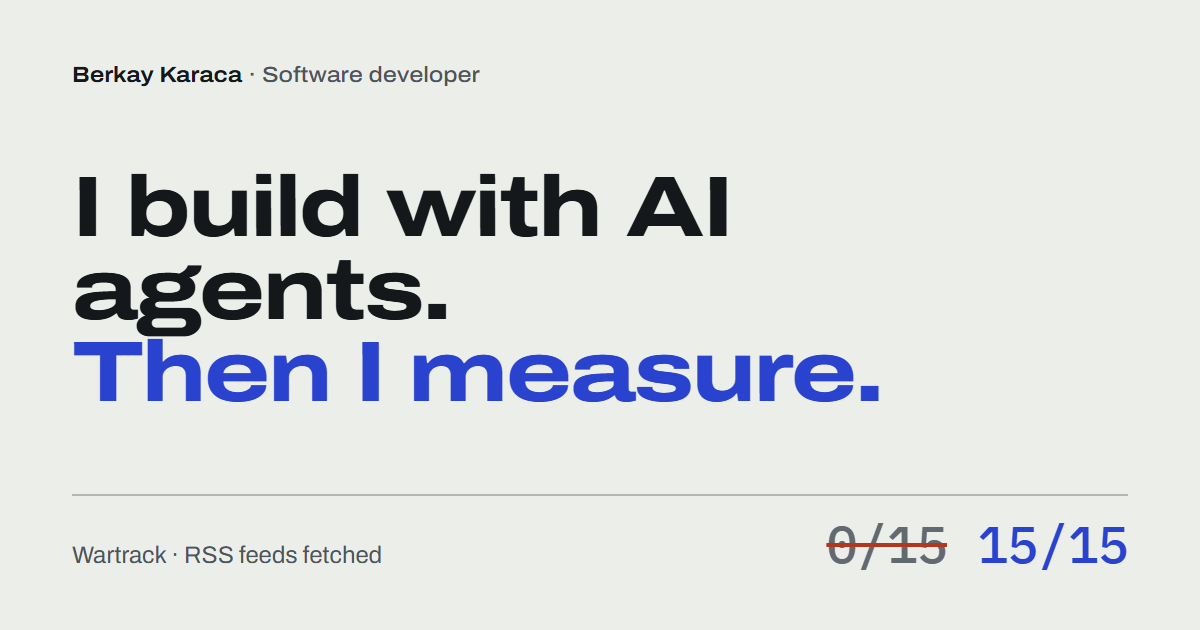
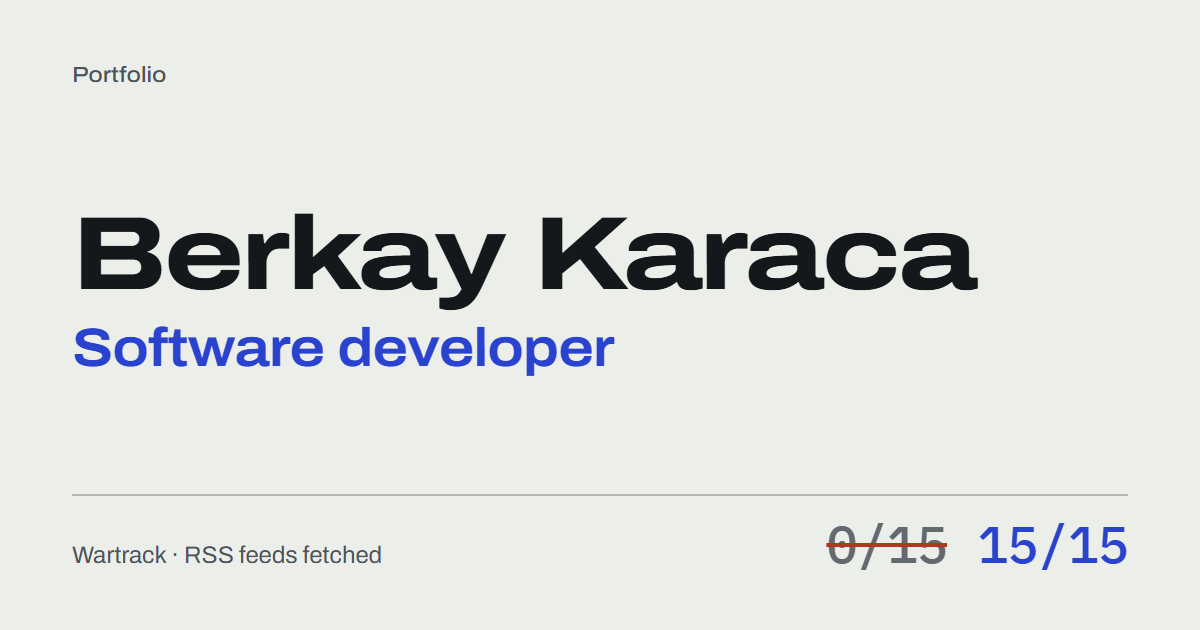
Hero: baslik ad + rol; eski tez cumlesi kaldirildi (Scryne), OG karti ayni duzende

Changed region(s): [[0.0617, 0.2714, 0.8325, 0.6635], [0.0617, 0.0905, 0.4008, 0.1508]]

diff --git a/components/AnaSayfa.tsx b/components/AnaSayfa.tsx
@@ -11,7 +11,6 @@ import { Sergi } from './Sergi';
 import { Yontem } from './Yontem';
 
 export function AnaSayfa({ dil }: { dil: Dil }) {
-  const [ilk, ikinci] = HERO.baslik[dil];
   return (
     <>
       <script
@@ -20,14 +19,10 @@ export function AnaSayfa({ dil }: { dil: Dil }) {
       />
       <section className="izgara border-b border-cizgi">
         <div className="kap pt-32 pb-16 md:pt-40 lg:pb-20">
-          <p className="baslik text-lg text-yazi md:text-xl">
-            {KISI.ad}
-            <span className="text-yazi-3"> · </span>
-            <span className="text-yazi-2">{HERO.ust[dil]}</span>
-          </p>
-          <h1 className="gosterge mt-6 max-w-[16ch] text-[clamp(2.75rem,7.6vw,7rem)] md:mt-8">
-            <span className="block">{ilk}</span>
-            <span className="block text-murekkep">{ikinci}</span>
+          {/* Başlık: ad. Rol altında, ölçülen değerlerle aynı mavi mürekkep. */}
+          <h1>
+            <span className="gosterge block text-[clamp(3rem,10vw,8.5rem)]">{KISI.ad}</span>
+            <span className="baslik mt-4 block text-[clamp(1.625rem,3.4vw,3rem)] text-murekkep md:mt-6">{HERO.ust[dil]}</span>
           </h1>
           <div className="mt-10 grid gap-8 lg:mt-12 lg:grid-cols-12 lg:items-end">
             <p className="metin text-lg leading-relaxed text-yazi-2 lg:col-span-7">{HERO.giris[dil]}</p>

diff --git a/content/site.ts b/content/site.ts
@@ -10,10 +10,6 @@ export const KISI = {
 
 export const HERO = {
   ust: { tr: 'Yazılım geliştirici', en: 'Software developer' } satisfies Ik,
-  baslik: {
-    tr: ['Yapay zekâyla kuruyorum.', 'Sonra ölçüyorum.'],
-    en: ['I build with AI agents.', 'Then I measure.'],
-  } satisfies Ik<string[]>,
   giris: {
     tr: 'Çok kiracılı SaaS, belge yapay zekâsı, OSINT ve endüstriyel yazılım geliştiriyorum. Kodu yapay zekâ ajanlarıyla yazıyorum; çalıştığına testle, değerlendirme setiyle ve gerçek veriyle uçtan uca koşuyla karar veriyorum.',
     en: 'I build multi-tenant SaaS, document AI, OSINT and industrial software. I write code with AI agents, and decide whether it works with tests, evaluation sets and end-to-end runs on real data.',

diff --git a/lib/meta.ts b/lib/meta.ts
@@ -54,7 +54,7 @@ export function kisiJsonLd(dil: Dil) {
 }
 
 export function anaSayfaMeta(dil: Dil): Metadata {
-  const k = kart(dil, 'index', `${KISI.ad} · ${HERO.baslik[dil].join(' ')}`);
+  const k = kart(dil, 'index', `${KISI.ad} · ${HERO.ust[dil]}`);
   return {
     alternates: {
       canonical: yol.ana(dil),

diff --git a/DESIGN.md b/DESIGN.md
@@ -68,6 +68,9 @@ lider, TR ve yurt dışı. Kazanılacak sıfat: **kesin**. Hareket derinliği: t
 (hero'daki kalem çizgisi), gerisi sessiz geri bildirim. Layout ailesi: tam genişlik tipografik
 hero → asimetrik sergi → tam genişlik görsel → dizin tablosu → numaralı yöntem yığını → bant.
 
+**Hero.** Başlık adın kendisi, altında rol kobalt mürekkeple. Scryne 2026-09-28: "Yapay zekâyla
+kuruyorum. Sonra ölçüyorum." cümlesi garip geldi, kaldırıldı. Tez başlıkta değil, defterde durur.
+
 **Tez.** Berkay yapay zekâ ajanlarıyla hızlı kuruyor, sonra neyin gerçekten çalıştığını
 ölçüyor. Eylül 2026'da dokuz projesini yeniden ölçtü; testler yeşilken ürünlerin çalışmadığı
 yerleri buldu ve düzeltti. Site bu yüzden bir **denetim defteri** gibi tasarlandı: iddia
@@ -107,7 +110,7 @@ ayrı tasarlanmış: yüzeyler yükseldikçe açılır, mürekkepler doygunluğu
 ## Typography
 
 **Archivo** tek UI ailesi; değişken `wdth` ekseni tipografinin kendisini imza yapar:
-- Görüntü başlıkları (ad, hero cümlesi, proje adları) **geniş** kesimde (`wdth` 118–125),
+- Görüntü başlıkları (hero'da ad, proje adları, bölüm başlıkları) **geniş** kesimde (`wdth` 118–125),
   ağır ve sıkı. Kısa tutulur; hiçbir başlık üç satırı geçmez.
 - Gövde normal genişlikte (`wdth` 100), 65ch ölçü.
 - **IBM Plex Mono** yalnız makine değerleri için: ölçüm, tarih, repo yolu, künye alanları,
